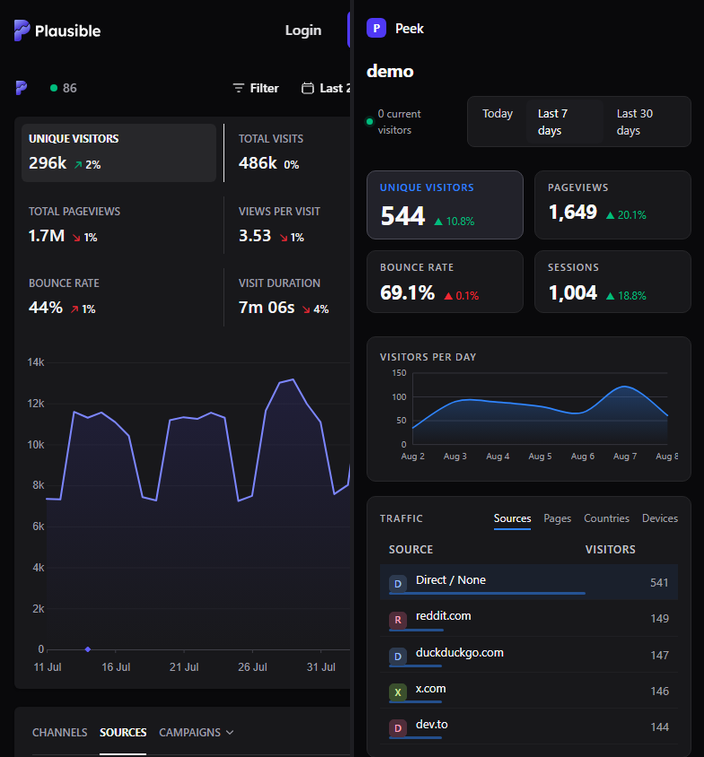
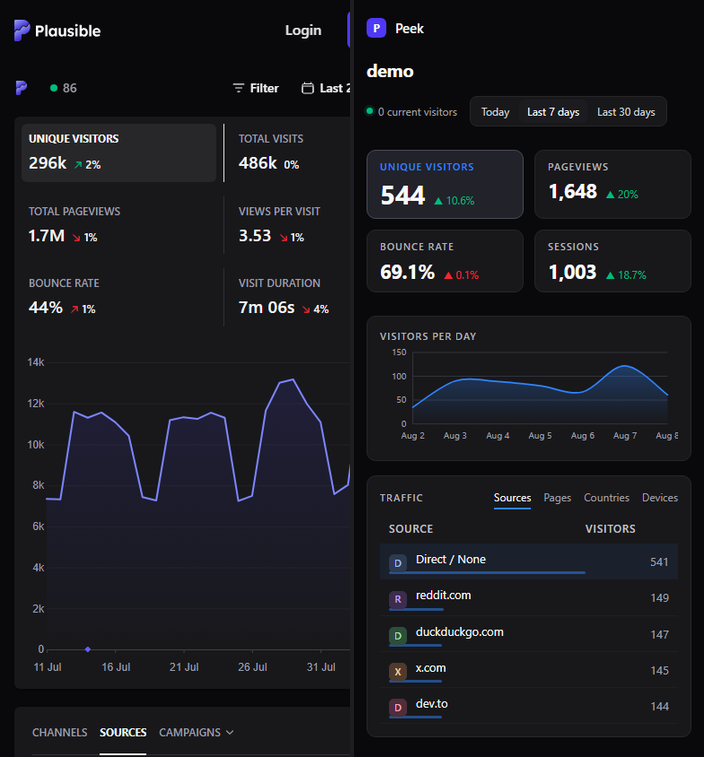
round 10: glyph hues by row index (TINTS[i%6]) - kills the Direct/duckduckgo blue-D collision the R9 judge measured; mobile range pill compacted to one line (Last 7 days wrap)

diff --git a/server.js b/server.js
@@ -69,7 +69,7 @@ function rows(data, nameKey, countKey = 'pv', headers = ['Source', 'Visitors']) 
     data.map((r, i) => {
       const name = r[nameKey] || 'Direct / None';
       const pct = Math.round((r[countKey] / max) * 100);
-      const [bg, fg] = i === 0 ? TINTS[0] : TINTS[(name.length * 31 + name.charCodeAt(0)) % TINTS.length];
+      const [bg, fg] = TINTS[i % TINTS.length];
       return `<tr${i === 0 ? ' class="top"' : ''}><td><span class="bar" style="width:${pct}%"></span><span class="mono" style="background:${bg};border-color:${bg};color:${fg}">${esc((name[0] || '?').toUpperCase())}</span><span class="nm">${esc(name)}</span></td><td class="n">${lib.fmt(r[countKey])}</td></tr>`;
     }).join('') + '</tbody></table>';
 }

diff --git a/views/dashboard.html b/views/dashboard.html
@@ -59,6 +59,7 @@ tr.top .mono{background:#2d3a4f;border-color:#3d5570;color:#9cc2ff}
 @media (max-width:760px){
   .chart-d{display:none}
   .chart-m{display:block}
+  .ranges a{font-size:12px;padding:4px 9px}
   .wrap{padding:20px 14px 96px}
   tbody tr:nth-child(n+6){display:none}
   .sitebar{flex-direction:column;align-items:flex-start;gap:14px}
